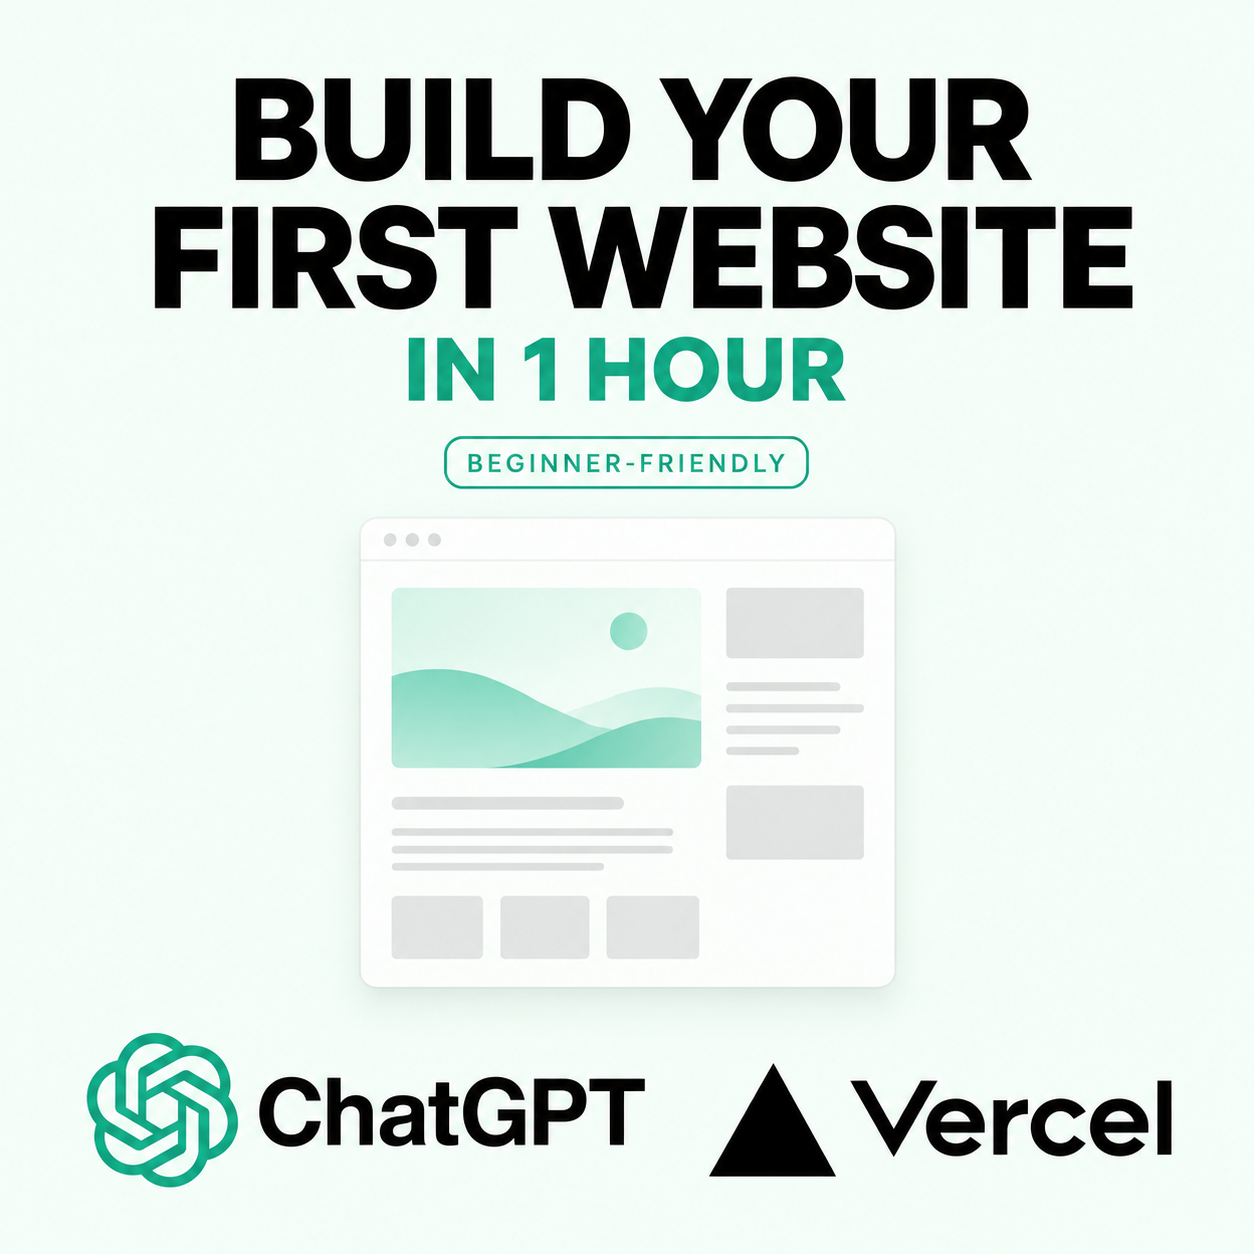
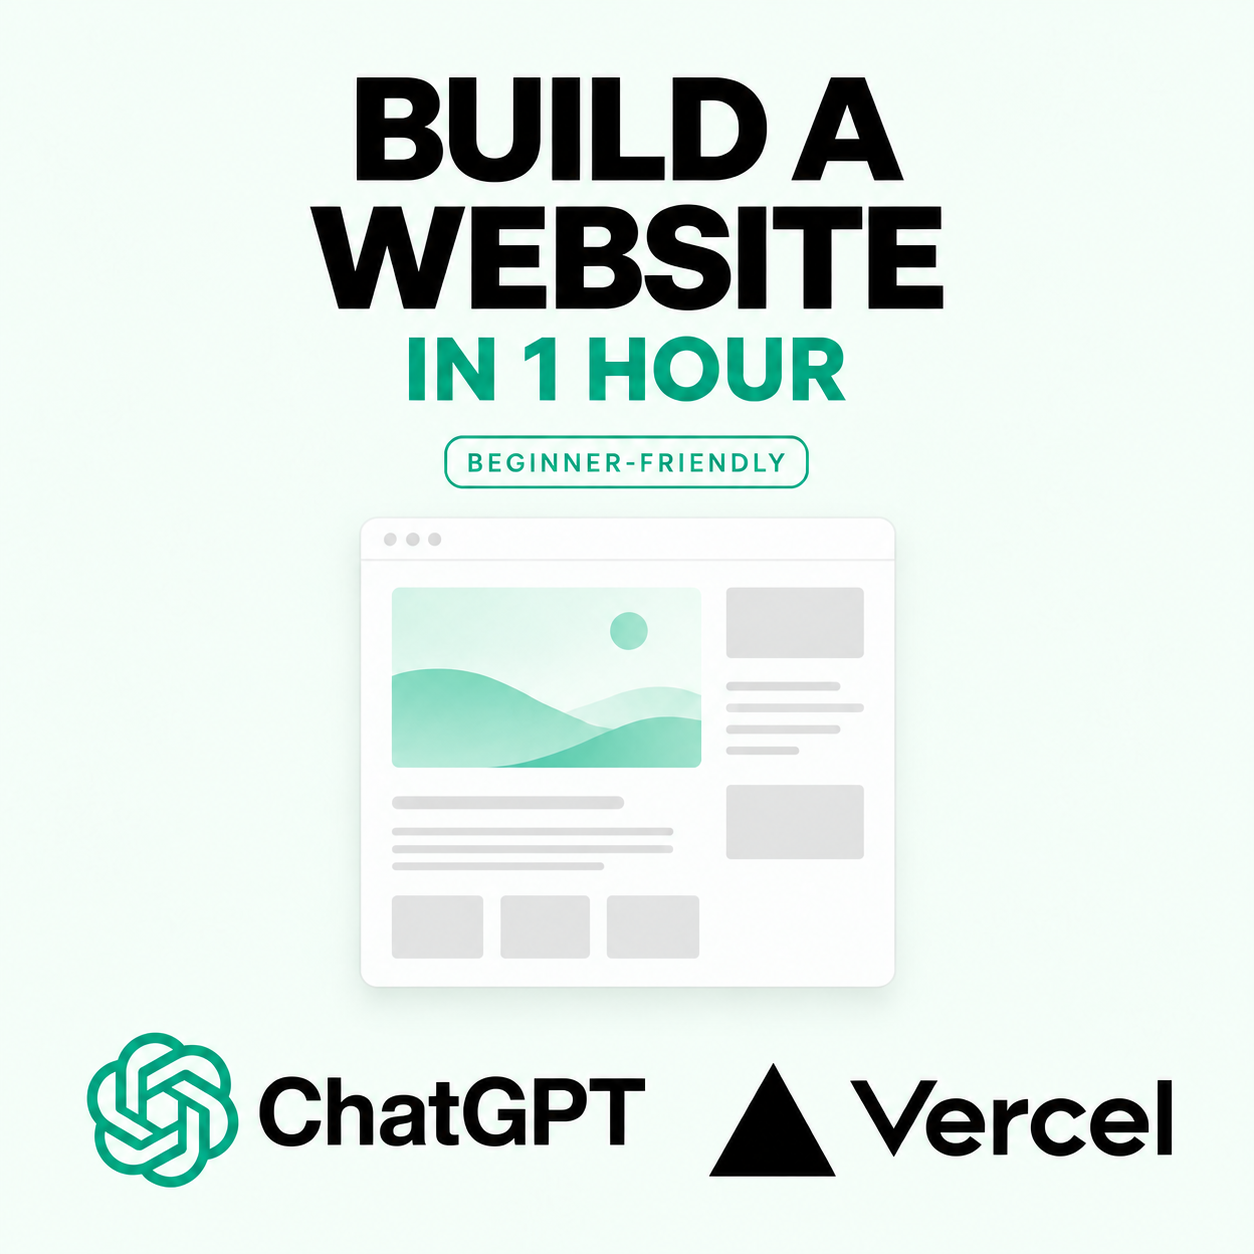
Rename workshops to Build a website with Claude/ChatGPT, new covers, old URLs redirect
Claude-Session: https://claude.ai/code/session_01Lpk5UFr1y7HYcs5J7TKPYJ

diff --git a/lib/workshops.ts b/lib/workshops.ts
@@ -8,25 +8,36 @@ export type Workshop = {
   cover: { src: string; alt: string };
   duration: string;
   tools: string;
+  // Slugs this workshop used to live at. Old URLs redirect here permanently
+  // (next.config.ts) and gallery entries stored under them keep this title.
+  previousSlugs?: string[];
 };
 
 export const WORKSHOPS: Workshop[] = [
   {
-    slug: 'build-your-first-website-with-claude',
-    title: 'Build your first website with Claude',
+    slug: 'build-a-website-with-claude',
+    previousSlugs: ['build-your-first-website-with-claude'],
+    title: 'Build a website with Claude',
     blurb: 'Build your very first web app with Claude, put it on the internet, and keep it safe. Beginners welcome, one step at a time.',
-    cover: { src: '/workshops/claude/title-cover.png', alt: 'Build your first website in 1 hour, beginner-friendly, with Claude and Vercel' },
+    cover: { src: '/workshops/claude/title-cover.png', alt: 'Build a website in 1 hour, beginner-friendly, with Claude and Vercel' },
     duration: 'About 45 minutes',
     tools: 'Claude and Vercel',
   },
   {
-    slug: 'build-your-first-website-with-chatgpt',
-    title: 'Build your first website with ChatGPT',
+    slug: 'build-a-website-with-chatgpt',
+    previousSlugs: ['build-your-first-website-with-chatgpt'],
+    title: 'Build a website with ChatGPT',
     blurb: 'Build your very first web app with ChatGPT, put it on the internet, and keep it safe. Beginners welcome, one step at a time.',
-    cover: { src: '/workshops/chatgpt/title-cover.png', alt: 'Build your first website in 1 hour, beginner-friendly, with ChatGPT and Vercel' },
+    cover: { src: '/workshops/chatgpt/title-cover.png', alt: 'Build a website in 1 hour, beginner-friendly, with ChatGPT and Vercel' },
     duration: 'About 45 minutes',
     tools: 'ChatGPT and Vercel',
   },
 ];
 
 export const workshopPath = (slug: string) => `/workshops/${slug}`;
+
+// Current or previous slug to the workshop, so records written before a rename
+// still resolve.
+export function findWorkshop(slug: string): Workshop | undefined {
+  return WORKSHOPS.find((w) => w.slug === slug || w.previousSlugs?.includes(slug));
+}

diff --git a/app/workshops/build-a-website-with-chatgpt/page.tsx b/app/workshops/build-a-website-with-chatgpt/page.tsx
@@ -6,19 +6,19 @@ const SHARE_IMAGE = {
   url: '/workshops/chatgpt/title-cover.png',
   width: 1254,
   height: 1254,
-  alt: 'Build your first website in 1 hour, beginner-friendly, with ChatGPT and Vercel',
+  alt: 'Build a website in 1 hour, beginner-friendly, with ChatGPT and Vercel',
 };
 const description = 'Build your very first web app with ChatGPT, put it on the internet, and keep it safe. Beginners welcome, one step at a time.';
 
 export const metadata: Metadata = {
-  title: 'Build your first website with ChatGPT',
+  title: 'Build a website with ChatGPT',
   description: 'A free, step-by-step workshop that walks you through building your very first web app with ChatGPT, putting it on the internet, and keeping it safe. Beginners welcome.',
-  openGraph: { title: 'Build your first website with ChatGPT', description, images: [SHARE_IMAGE] },
-  twitter: { card: 'summary_large_image', title: 'Build your first website with ChatGPT', description, images: [SHARE_IMAGE.url] },
+  openGraph: { title: 'Build a website with ChatGPT', description, images: [SHARE_IMAGE] },
+  twitter: { card: 'summary_large_image', title: 'Build a website with ChatGPT', description, images: [SHARE_IMAGE.url] },
 };
 
 // Same shape as the Claude deck: no page hero, step 1 is the title slide.
 // Prompts are pasted into Codex, so the copy boxes say "type this to Codex".
 export default function ChatGPTWorkshopPage() {
-  return <WorkshopWizard workshop="build-your-first-website-with-chatgpt" steps={CHATGPT_STEPS} storageKey="adc-workshop-chatgpt-step" assistant="Codex" />;
+  return <WorkshopWizard workshop="build-a-website-with-chatgpt" steps={CHATGPT_STEPS} storageKey="adc-workshop-chatgpt-step" assistant="Codex" />;
 }

diff --git a/app/workshops/build-a-website-with-claude/page.tsx b/app/workshops/build-a-website-with-claude/page.tsx
@@ -6,19 +6,19 @@ const SHARE_IMAGE = {
   url: '/workshops/claude/title-cover.png',
   width: 1254,
   height: 1254,
-  alt: 'Build your first website in 1 hour, beginner-friendly, with Claude and Vercel',
+  alt: 'Build a website in 1 hour, beginner-friendly, with Claude and Vercel',
 };
 const description = 'Build your very first web app with Claude, put it on the internet, and keep it safe. Beginners welcome, one step at a time.';
 
 export const metadata: Metadata = {
-  title: 'Build your first website with Claude',
+  title: 'Build a website with Claude',
   description: 'A free, step-by-step workshop that walks you through building your very first web app with Claude, putting it on the internet, and keeping it safe. Beginners welcome.',
-  openGraph: { title: 'Build your first website with Claude', description, images: [SHARE_IMAGE] },
-  twitter: { card: 'summary_large_image', title: 'Build your first website with Claude', description, images: [SHARE_IMAGE.url] },
+  openGraph: { title: 'Build a website with Claude', description, images: [SHARE_IMAGE] },
+  twitter: { card: 'summary_large_image', title: 'Build a website with Claude', description, images: [SHARE_IMAGE.url] },
 };
 
 // No page hero: it would cost roughly a third of the vertical space on every
 // slide. The title lives on step 1, which is the title slide.
 export default function ClaudeWorkshopPage() {
-  return <WorkshopWizard workshop="build-your-first-website-with-claude" steps={CLAUDE_STEPS} storageKey="adc-workshop-claude-step" />;
+  return <WorkshopWizard workshop="build-a-website-with-claude" steps={CLAUDE_STEPS} storageKey="adc-workshop-claude-step" />;
 }

diff --git a/lib/workshop-submissions.ts b/lib/workshop-submissions.ts
@@ -1,5 +1,5 @@
 import { normalizeUrl } from "@/lib/demo-applications";
-import { WORKSHOPS } from "@/lib/workshops";
+import { findWorkshop } from "@/lib/workshops";
 
 // Workshop gallery: people who finish a workshop deck add their name and their
 // app's link on the finish slide. Stored in the top-level `workshopSubmissions`
@@ -26,12 +26,14 @@ export interface WorkshopSubmission extends WorkshopSubmissionInput {
 
 export type SubmissionField = "name" | "url";
 
+// Accepts a previous slug too, so a deck left open across a rename can still
+// submit; validation stores the current slug.
 export function isWorkshopSlug(v: unknown): v is string {
-  return typeof v === "string" && WORKSHOPS.some((w) => w.slug === v);
+  return typeof v === "string" && findWorkshop(v) !== undefined;
 }
 
 export function workshopTitle(slug: string): string {
-  return WORKSHOPS.find((w) => w.slug === slug)?.title ?? "Workshop";
+  return findWorkshop(slug)?.title ?? "Workshop";
 }
 
 export function validateWorkshopSubmission(
@@ -49,7 +51,7 @@ export function validateWorkshopSubmission(
   if (!url) errors.url = "Enter your app's web address, like your-app.vercel.app.";
 
   if (Object.keys(errors).length) return { ok: false, error: "Check the highlighted fields.", errors };
-  return { ok: true, value: { workshop: b.workshop, name, url: url! } };
+  return { ok: true, value: { workshop: findWorkshop(b.workshop)!.slug, name, url: url! } };
 }
 
 export function toSubmission(id: string, x: Record<string, unknown>): WorkshopSubmission {

diff --git a/tests/workshop-submissions.test.ts b/tests/workshop-submissions.test.ts
@@ -2,7 +2,7 @@ import test from "node:test";
 import assert from "node:assert/strict";
 import { displayHost, validateWorkshopSubmission } from "../lib/workshop-submissions";
 
-const workshop = "build-your-first-website-with-claude";
+const workshop = "build-a-website-with-claude";
 
 test("a valid submission is normalized", () => {
   const r = validateWorkshopSubmission({ workshop, name: "  Ada \n Lovelace ", url: "my-app.vercel.app" });
@@ -35,4 +35,12 @@ test("an unknown workshop is rejected", () => {
 
 test("displayHost drops www", () => {
   assert.equal(displayHost("https://www.example.com/x"), "example.com");
+});
+
+test("a renamed workshop's old slug still validates and is stored under the new slug", async () => {
+  const { workshopTitle } = await import("../lib/workshop-submissions");
+  const r = validateWorkshopSubmission({ workshop: "build-your-first-website-with-claude", name: "Ada", url: "https://a.dev" });
+  assert.equal(r.ok, true);
+  if (r.ok) assert.equal(r.value.workshop, "build-a-website-with-claude");
+  assert.equal(workshopTitle("build-your-first-website-with-claude"), "Build a website with Claude");
 });

diff --git a/lib/workshops/claude-steps.tsx b/lib/workshops/claude-steps.tsx
@@ -34,7 +34,7 @@ export const CLAUDE_STEPS: WorkshopStep[] = [
     // The title slide: the page itself carries no hero, so it lives here. The
     // cover art on the left carries the "in 1 hour" hook, so the heading states
     // the promise plainly.
-    title: "Build your first website",
+    title: "Build a website",
     lines: [
       "Build your very first web app, one step at a time. You say what you want, and Claude writes the code for you.",
       "By the end you will have something that works, a web address you can send to anyone, and a safe backup of it.",
@@ -44,7 +44,7 @@ export const CLAUDE_STEPS: WorkshopStep[] = [
       src: "/workshops/claude/title-cover.png",
       width: 1254,
       height: 1254,
-      alt: "Build your first website in 1 hour, beginner-friendly, with Claude and Vercel",
+      alt: "Build a website in 1 hour, beginner-friendly, with Claude and Vercel",
     },
   },
 

diff --git a/next.config.ts b/next.config.ts
@@ -1,3 +1,8 @@
 import type { NextConfig } from "next";
-const config: NextConfig = { serverExternalPackages: ["firebase-admin", "exceljs", "sharp"], images: { remotePatterns: [{ protocol: "https", hostname: "images.lumacdn.com" }] } };
+import { WORKSHOPS } from "./lib/workshops";
+
+// Renamed workshops keep their old links working (query such as ?step=N is carried over).
+const workshopRedirects = WORKSHOPS.flatMap(w => (w.previousSlugs ?? []).map(old => ({ source: `/workshops/${old}`, destination: `/workshops/${w.slug}`, permanent: true })));
+
+const config: NextConfig = { serverExternalPackages: ["firebase-admin", "exceljs", "sharp"], images: { remotePatterns: [{ protocol: "https", hostname: "images.lumacdn.com" }] }, async redirects() { return workshopRedirects; } };
 export default config;

diff --git a/lib/workshops/chatgpt-steps.tsx b/lib/workshops/chatgpt-steps.tsx
@@ -26,7 +26,7 @@ export const CHATGPT_STEPS: WorkshopStep[] = [
   {
     id: "welcome",
     part: "before you start",
-    title: "Build your first website",
+    title: "Build a website",
     lines: [
       "Build your very first web app, one step at a time. You say what you want, and ChatGPT writes the code for you.",
       "By the end you will have something that works, a web address you can send to anyone, and a safe backup of it.",
@@ -36,7 +36,7 @@ export const CHATGPT_STEPS: WorkshopStep[] = [
       src: "/workshops/chatgpt/title-cover.png",
       width: 1254,
       height: 1254,
-      alt: "Build your first website in 1 hour, beginner-friendly, with ChatGPT and Vercel",
+      alt: "Build a website in 1 hour, beginner-friendly, with ChatGPT and Vercel",
     },
   },
 

diff --git a/CLAUDE.md b/CLAUDE.md
@@ -51,3 +51,4 @@ Scaling: the inherited admin/matcher loads club contacts in memory at current ~1
 2026-09-30: Second workshop "Build your first website with ChatGPT" at `/workshops/build-your-first-website-with-chatgpt` (`lib/workshops/chatgpt-steps.tsx`, same 22-step arc as the Claude deck). The build happens in Codex inside the ChatGPT desktop app (Mac, Windows, Linux; Plan mode in the composer or Shift+Tab; plugins from the Plugins icon in the left sidebar). Folder is `chatgpt-workspace`. Screenshots arrive from the owner step by step (so far: step 4 `open-codex.png`, ChatGPT title menu > Codex; step 6 `choose-project.png` + `create-project.png`, Choose project > New project > Add folder > name > Create project; step 7 `ask-codex.png`, prompt typed in the Codex box; step 8 `plan-mode.png`, + menu > Plan mode; step 10 reuses `/workshops/claude/vercel-signup.png`; step 11 `vercel-plugin.png`, sidebar Plugins icon > search vercel > add; step 16 reuses `/workshops/claude/github-signup.png`; step 17 `github-plugin.png`: GitHub is connected via the Codex GitHub plugin, not the GitHub CLI as in the Claude deck; steps 19-21 reuse the Claude deck's exa-connector, firebase and posthog images, the Exa one uncaptioned because it shows Claude's Connectors UI); steps still without one have no image and render single-column; add them under `public/workshops/chatgpt/`. `public/workshops/chatgpt/title-cover.png` is the owner-supplied green ChatGPT cover (1254x1254, same layout as the Claude one). Optional Exa/Firebase/PostHog steps hand Codex the docs link to install the MCP rather than describing settings UI. Shared components now take the assistant name: `WorkshopWizard assistant` (default "Claude") drives the "type this to ..." copy-box label, `ChatArt assistant`, `ContextFilesArt folder`.
 2026-09-30: `WorkshopStep.image` accepts one image or an array; an array stacks in the picture column, each figure `flex-1` so they share the height, each with its own caption.
 2026-09-30: /workshops "See what people built" is now `.button.gallery-cta`: larger gradient pill (#5b36a3 > #9a3a8c > #bf4436, white text >= 5.1:1 everywhere), soft glow, one-shot sheen and arrow nudge on hover (off under reduced motion), full width below 520px. Same in light and dark on purpose. Known, unrelated: the header nav overflows by ~19px around 780px viewport width.
+2026-09-30: Renamed both workshops from "Build your first website with X" to "Build a website with X" (new owner-supplied covers say "Build a website in 1 hour"). Slugs are now `build-a-website-with-claude` / `build-a-website-with-chatgpt`; earlier notes above use the old slugs. `Workshop.previousSlugs` keeps old slugs: next.config.ts 308-redirects them (query such as ?step=N preserved), and `findWorkshop` resolves them so existing `workshopSubmissions` rows stored under the old Claude slug keep their title in the gallery and admin. No Firestore rewrite was done. New submissions from a stale tab on an old slug are stored under the current slug. Progress keys (`adc-workshop-*-step`) are unchanged, so readers resume where they were.
